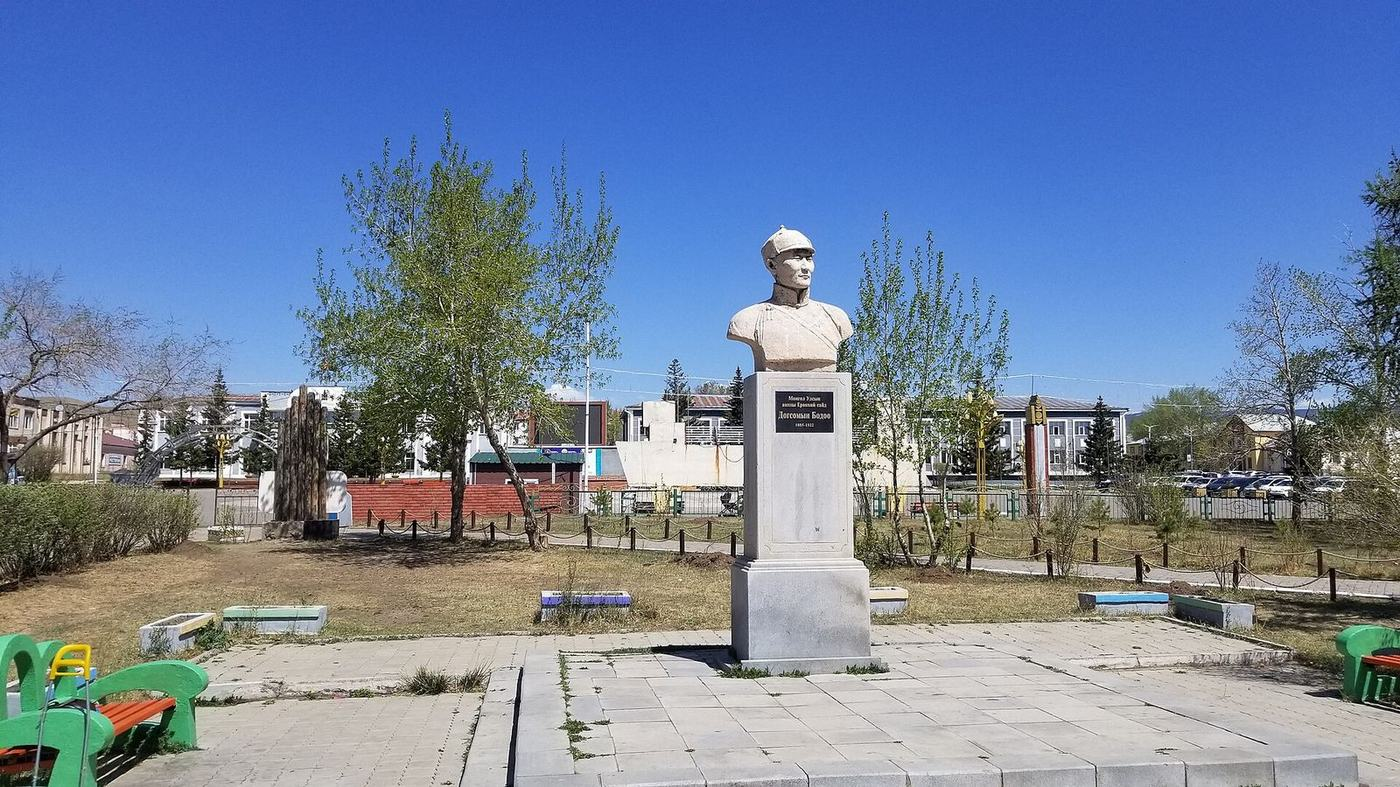
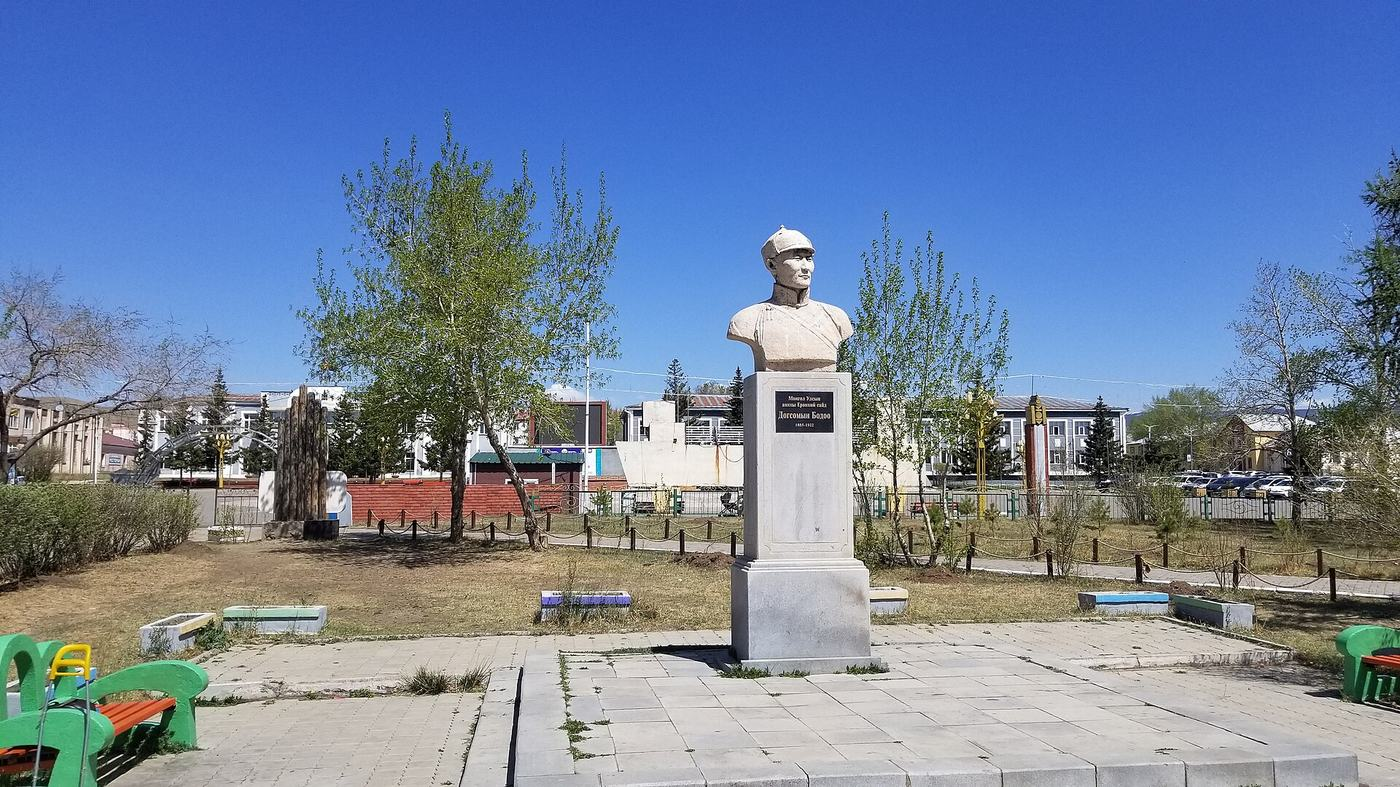
Зургийг Монгол орны дүр зураг руу шилжүүлэх: Зуунмод, Наадам, орон нутгийн сургалт, эрүүл мэнд

diff --git a/index.html b/index.html
@@ -79,7 +79,7 @@
     </p>
     <div class="tuv-cards">
       <article class="tuv-card">
-        <img class="tuv-card__img" src="assets/img/tile-employ.jpg" width="1400" height="900" alt="Ажлын орчинд хамтран ажиллаж буй хүмүүс" loading="lazy">
+        <img class="tuv-card__img" src="assets/img/work-project.jpg" width="1400" height="900" alt="Орон нутгийн хамтын ажил" loading="lazy">
         <div class="tuv-card__body">
           <h3 class="govuk-heading-s">Хөдөлмөр эрхлэлт</h3>
           <p class="govuk-body-s">Код 7820. Хөгжлийн бэрхшээлтэй иргэдийн хөдөлмөр эрхлэлтийг дэмжих үйл ажиллагаа.</p>
@@ -87,7 +87,7 @@
         </div>
       </article>
       <article class="tuv-card">
-        <img class="tuv-card__img" src="assets/img/tile-community.jpg" width="1400" height="900" alt="Хүнд туслах, нийгмийн оролцоо" loading="lazy">
+        <img class="tuv-card__img" src="assets/img/naadam-crowd.jpg" width="1400" height="900" alt="Наадмын үеэр уламжлалт дээлтэй олон нийт" loading="lazy">
         <div class="tuv-card__body">
           <h3 class="govuk-heading-s">Нийгмийн оролцоо</h3>
           <p class="govuk-body-s">Код 8211. Хөгжлийн бэрхшээлтэй иргэдийг нийгмийн амьдралд оролцуулах үйл ажиллагаа.</p>
@@ -95,7 +95,7 @@
         </div>
       </article>
       <article class="tuv-card">
-        <img class="tuv-card__img" src="assets/img/tile-train.jpg" width="1400" height="900" alt="Брайль бичгээр уншиж буй гар" loading="lazy">
+        <img class="tuv-card__img" src="assets/img/braille.jpg" width="1400" height="900" alt="Брайль бичгээр уншиж буй гар" loading="lazy">
         <div class="tuv-card__body">
           <h3 class="govuk-heading-s">Мэдээлэл, сургалт</h3>
           <p class="govuk-body-s">Код 9499. Мэдээлэл хүргэх, сургалт сурталчилгаа явуулах үйл ажиллагаа.</p>
@@ -113,32 +113,32 @@
     </p>
     <div class="tuv-tiles">
       <div class="tuv-tile">
-        <img class="tuv-tile__img" src="assets/img/tile-employ.jpg" width="1400" height="900" alt="Ажлын байранд хамтран ажиллаж буй хүмүүс" loading="lazy">
+        <img class="tuv-tile__img" src="assets/img/work-project2.jpg" width="1400" height="900" alt="Орон нутгийн иргэд хамтран ажиллаж байна" loading="lazy">
         <h3>Ажил, орлого</h3>
         <p>Ажил олдохгүй байх, орлогын дутагдал — хөгжлийн бэрхшээлтэй иргэдийн хамгийн түгээмэл асуудал.</p>
       </div>
       <div class="tuv-tile">
-        <img class="tuv-tile__img" src="assets/img/tile-access.jpg" width="1400" height="900" alt="Хүртээмжтэй налуу зам, тактиль хучилт" loading="lazy">
+        <img class="tuv-tile__img" src="assets/img/tactile.jpg" width="1400" height="900" alt="Хүртээмжтэй налуу зам, тактиль хучилт" loading="lazy">
         <h3>Хүртээмжгүй орчин</h3>
         <p>Барилга, зам, нийтийн үйлчилгээ, мэдээлэл хүн бүрт хүртээмжтэй байх ёстой.</p>
       </div>
       <div class="tuv-tile">
-        <img class="tuv-tile__img" src="assets/img/tile-support.jpg" width="1400" height="900" alt="Нөхөн сэргээх дасгал хийж буй хүн" loading="lazy">
+        <img class="tuv-tile__img" src="assets/img/health-check.jpg" width="1400" height="900" alt="Хүүхдэд эрүүл мэндийн үзлэг хийж буй эмч" loading="lazy">
         <h3>Эрүүл мэнд, нөхөн сэргээлт</h3>
         <p>Нөхөн сэргээх эмчилгээ, туслах хэрэгсэл, эрүүл мэндийн үйлчилгээ орон нутагт хүрэлцэхгүй.</p>
       </div>
       <div class="tuv-tile">
-        <img class="tuv-tile__img" src="assets/img/tile-train.jpg" width="1400" height="900" alt="Брайль бичгээр уншиж буй гар" loading="lazy">
+        <img class="tuv-tile__img" src="assets/img/classroom-num.jpg" width="1400" height="900" alt="Сургалтын танхим" loading="lazy">
         <h3>Боловсрол, сургалт</h3>
         <p>Сургууль, мэргэжлийн сургалтад тэгш хамрагдах боломж хязгаарлагдмал.</p>
       </div>
       <div class="tuv-tile">
-        <img class="tuv-tile__img" src="assets/img/tile-sport.jpg" width="1400" height="900" alt="Тэргэнцэртэй сагсан бөмбөгийн тоглогчид" loading="lazy">
+        <img class="tuv-tile__img" src="assets/img/naadam-horse.jpg" width="1400" height="900" alt="Наадмын морь уралдаан" loading="lazy">
         <h3>Соёл, спорт, чөлөөт цаг</h3>
         <p>Соёл, спортын үйл ажиллагаанд оролцох боломж цөөн, орчин тохиромжгүй.</p>
       </div>
       <div class="tuv-tile">
-        <img class="tuv-tile__img" src="assets/img/tile-community.jpg" width="1400" height="900" alt="Хүнд туслах сайн дурын ажилтан" loading="lazy">
+        <img class="tuv-tile__img" src="assets/img/health-child.jpg" width="1400" height="900" alt="Хүүхдэд үзлэг хийж байна" loading="lazy">
         <h3>Гэр бүл, дэмжлэг</h3>
         <p>Асран хамгаалагч, гэр бүлийн ачаалал их; харилцан дэмжлэг, мэдээлэл хэрэгтэй.</p>
       </div>
@@ -201,7 +201,7 @@
     <h2 class="govuk-heading-l">Хийсэн ажил</h2>
     <div class="tuv-feature">
       <div class="tuv-feature__media">
-        <img src="assets/img/meet-hall.jpg" width="1400" height="900" alt="Хамтран зохион байгуулсан чуулга уулзалт" loading="lazy">
+        <img src="assets/img/meeting-officials.jpg" width="1400" height="900" alt="Орон нутгийн албан ёсны уулзалт" loading="lazy">
       </div>
       <div class="tuv-feature__body">
         <h3 class="govuk-heading-m">«Хөгжлийн бэрхшээл ба тэгш хүртээмж» чуулга уулзалт</h3>
@@ -209,7 +209,7 @@
       </div>
     </div>    <div class="tuv-feature tuv-feature--flip">
       <div class="tuv-feature__media">
-        <img src="assets/img/local-town.jpg" width="1400" height="900" alt="«Аз жаргалын өргөө» төвийн орчин" loading="lazy">
+        <img src="assets/img/town-monument.jpg" width="1400" height="900" alt="Зуунмод хотын төв талбай" loading="lazy">
       </div>
       <div class="tuv-feature__body">
         <h3 class="govuk-heading-m">«Аз жаргалын өргөө» төвд үйл ажиллагаа явуулж эхэлсэн</h3>

diff --git a/services.html b/services.html
@@ -66,14 +66,14 @@
       </div>
     </div>
     <div class="tuv-band">
-      <img src="assets/img/access-tactile.jpg" width="1400" height="900" alt="Тактиль хучилт, хүртээмжтэй орчин" loading="lazy">
+      <img src="assets/img/tactile2.jpg" width="1400" height="900" alt="Тактиль хучилт — хүртээмжтэй орчны үндэс" loading="lazy">
     </div>  </div>
   <div class="govuk-width-container">
     <hr class="govuk-section-break govuk-section-break--l govuk-section-break--visible">
     <h2 class="govuk-heading-l">7820 — Хөдөлмөр эрхлэлт</h2>
     <div class="tuv-feature">
       <div class="tuv-feature__media">
-        <img src="assets/img/employ-workshop.jpg" width="1400" height="900" alt="Хамтран ажиллах, суралцах орчин" loading="lazy">
+        <img src="assets/img/work-project.jpg" width="1400" height="900" alt="Орон нутгийн хамтын ажил" loading="lazy">
       </div>
       <div class="tuv-feature__body">
         <h3 class="govuk-heading-m">Хөдөлмөр эрхлэлтийг дэмжих үйл ажиллагаа</h3>
@@ -88,8 +88,8 @@
       <li>Өөрсдийн бүтээгдэхүүнээ борлуулах боломж бүрдүүлэх</li>
     </ul>
     <div class="tuv-gallery tuv-gallery--2">
-      <img src="assets/img/tile-employ.jpg" width="1400" height="900" alt="Ажлын орчинд хамтран ажиллаж буй хүмүүс" loading="lazy">
-      <img src="assets/img/employ-workshop.jpg" width="1400" height="900" alt="Сургалт, хамтын ажил" loading="lazy">
+      <img src="assets/img/work-project2.jpg" width="1400" height="900" alt="Орон нутгийн иргэд хамтран ажиллаж байна" loading="lazy">
+      <img src="assets/img/town-park.jpg" width="1400" height="900" alt="Зуунмод хотын цэцэрлэгт хүрээлэн" loading="lazy">
     </div>
   </div>
   <div class="govuk-width-container">
@@ -97,7 +97,7 @@
     <h2 class="govuk-heading-l">8211 — Нийгмийн оролцоо</h2>
     <div class="tuv-feature tuv-feature--flip">
       <div class="tuv-feature__media">
-        <img src="assets/img/sport-basketball.jpg" width="1400" height="900" alt="Тэргэнцэртэй сагсан бөмбөг" loading="lazy">
+        <img src="assets/img/naadam-wrestle.jpg" width="1400" height="900" alt="Наадмын бөх барилдаан" loading="lazy">
       </div>
       <div class="tuv-feature__body">
         <h3 class="govuk-heading-m">Нийгмийн оролцоог дэмжих үйл ажиллагаа</h3>
@@ -112,8 +112,8 @@
       <li>Нийгмийн ойлголт, хандлагыг сайжруулах</li>
     </ul>
     <div class="tuv-gallery tuv-gallery--2">
-      <img src="assets/img/community-help.jpg" width="1400" height="900" alt="Хүнд туслах, хамтын дэмжлэг" loading="lazy">
-      <img src="assets/img/sport-special.jpg" width="1400" height="900" alt="Спортын арга хэмжээнд оролцож буй тамирчид" loading="lazy">
+      <img src="assets/img/naadam-stage.jpg" width="1400" height="900" alt="Наадмын нээлтийн тоглолт" loading="lazy">
+      <img src="assets/img/naadam-crowd.jpg" width="1400" height="900" alt="Наадмын үеэр уламжлалт дээлтэй олон нийт" loading="lazy">
     </div>
   </div>
   <div class="govuk-width-container">
@@ -121,7 +121,7 @@
     <h2 class="govuk-heading-l">9499 — Мэдээлэл, сургалт</h2>
     <div class="tuv-feature">
       <div class="tuv-feature__media">
-        <img src="assets/img/train-session.jpg" width="1400" height="900" alt="Сургалт, харилцааны дасгал" loading="lazy">
+        <img src="assets/img/braille.jpg" width="1400" height="900" alt="Брайль бичгээр уншиж буй гар" loading="lazy">
       </div>
       <div class="tuv-feature__body">
         <h3 class="govuk-heading-m">Мэдээлэл, сургалт сурталчилгаа явуулах үйл ажиллагаа</h3>
@@ -136,8 +136,8 @@
       <li>Олон нийтэд хөгжлийн бэрхшээлийн талаарх ойлголт өгөх</li>
     </ul>
     <div class="tuv-gallery tuv-gallery--2">
-      <img src="assets/img/tile-train.jpg" width="1400" height="900" alt="Брайль бичгээр уншиж буй гар" loading="lazy">
-      <img src="assets/img/gal-classroom.jpg" width="1400" height="900" alt="Сургалтын танхим" loading="lazy">
+      <img src="assets/img/classroom-num.jpg" width="1400" height="900" alt="Сургалтын танхим" loading="lazy">
+      <img src="assets/img/kindergarten.jpg" width="1400" height="900" alt="Орон нутгийн хүүхдүүд" loading="lazy">
     </div>
   </div>
   <div class="govuk-width-container">

diff --git a/record.html b/record.html
@@ -66,14 +66,14 @@
       </div>
     </div>
     <div class="tuv-band">
-      <img src="assets/img/meet-hall.jpg" width="1400" height="900" alt="Хамтран зохион байгуулсан уулзалт" loading="lazy">
+      <img src="assets/img/town-square.jpg" width="1400" height="900" alt="Зуунмод сумын төв талбай" loading="lazy">
     </div>  </div>
   <div class="govuk-width-container">
     <hr class="govuk-section-break govuk-section-break--l govuk-section-break--visible">
     <h2 class="govuk-heading-l">2023 оны 12 дугаар сар</h2>
     <div class="tuv-feature">
       <div class="tuv-feature__media">
-        <img src="assets/img/community-help.jpg" width="1400" height="900" alt="Олон нийтийн уулзалт, хэлэлцүүлэг" loading="lazy">
+        <img src="assets/img/meeting-officials.jpg" width="1400" height="900" alt="Орон нутгийн албан ёсны уулзалт" loading="lazy">
       </div>
       <div class="tuv-feature__body">
         <h3 class="govuk-heading-m">«Хөгжлийн бэрхшээл ба тэгш хүртээмж» чуулга уулзалт</h3>
@@ -87,7 +87,7 @@
     <h2 class="govuk-heading-l">2023 оны 7 дугаар сар</h2>
     <div class="tuv-feature tuv-feature--flip">
       <div class="tuv-feature__media">
-        <img src="assets/img/local-town.jpg" width="1400" height="900" alt="«Аз жаргалын өргөө» төвийн орчин" loading="lazy">
+        <img src="assets/img/town-monument.jpg" width="1400" height="900" alt="Зуунмод хотын төв талбай" loading="lazy">
       </div>
       <div class="tuv-feature__body">
         <h3 class="govuk-heading-m">«Аз жаргалын өргөө» төвд үйл ажиллагаа явуулж эхэлсэн</h3>
@@ -106,21 +106,21 @@
       <li>Ариун цэврийн өрөө, душ</li>
     </ul>
     <div class="tuv-gallery tuv-gallery--2">
-      <img src="assets/img/access-tactile.jpg" width="1400" height="900" alt="Хүртээмжтэй орчин, тактиль хучилт" loading="lazy">
-      <img src="assets/img/support-therapy.jpg" width="1400" height="900" alt="Нөхөн сэргээх дасгал" loading="lazy">
+      <img src="assets/img/tactile2.jpg" width="1400" height="900" alt="Хүртээмжтэй орчин, тактиль хучилт" loading="lazy">
+      <img src="assets/img/town-street.jpg" width="1400" height="900" alt="Зуунмод хотын гудамж" loading="lazy">
     </div>
   </div>
   <div class="govuk-width-container">
     <hr class="govuk-section-break govuk-section-break--l govuk-section-break--visible">
-    <h2 class="govuk-heading-l">Үйл ажиллагааны зураг</h2>
+    <h2 class="govuk-heading-l">Үйл ажиллагааны чиглэлүүд</h2>
     <p class="govuk-body">
-      Холбооны ажиллах чиглэлүүдийг харуулах зургууд.
+      Холбооны ажиллах чиглэлүүд — ажил, хүртээмж, соёл, хамтын дэмжлэг.
     </p>
     <div class="tuv-gallery">
-      <img src="assets/img/tile-employ.jpg" width="1400" height="900" alt="Ажлын орчин" loading="lazy">
-      <img src="assets/img/tile-access.jpg" width="1400" height="900" alt="Хүртээмжтэй орчин" loading="lazy">
-      <img src="assets/img/tile-sport.jpg" width="1400" height="900" alt="Спортын оролцоо" loading="lazy">
-      <img src="assets/img/tile-community.jpg" width="1400" height="900" alt="Хамтын дэмжлэг" loading="lazy">
+      <img src="assets/img/work-project2.jpg" width="1400" height="900" alt="Хамтын ажил" loading="lazy">
+      <img src="assets/img/tactile.jpg" width="1400" height="900" alt="Хүртээмжтэй орчин" loading="lazy">
+      <img src="assets/img/naadam-horse.jpg" width="1400" height="900" alt="Соёл, спортын оролцоо" loading="lazy">
+      <img src="assets/img/health-women.jpg" width="1400" height="900" alt="Эрүүл мэндийн үзлэг" loading="lazy">
     </div>
   </div>
 

diff --git a/about.html b/about.html
@@ -66,7 +66,7 @@
       </div>
     </div>
     <div class="tuv-band">
-      <img src="assets/img/about-people.jpg" width="1400" height="900" alt="Орон нутгийн хүүхдүүд, Төв аймаг" loading="lazy">
+      <img src="assets/img/naadam-stage.jpg" width="1400" height="900" alt="Наадмын нээлтийн тоглолт, Төв аймаг" loading="lazy">
     </div>  </div>
   <div class="govuk-width-container">
     <hr class="govuk-section-break govuk-section-break--l govuk-section-break--visible">
@@ -139,8 +139,8 @@
         </ol>
       </div>
       <div class="govuk-grid-column-one-third">
-        <img src="assets/img/about-town.jpg" width="1400" height="900"
-             alt="Орон нутгийн хамтын ажил" class="tuv-side-img" loading="lazy">
+        <img src="assets/img/town-street.jpg" width="1400" height="900"
+             alt="Зуунмод хотын гудамж" class="tuv-side-img" loading="lazy">
       </div>
     </div>
   </div>
@@ -200,8 +200,8 @@
       «Аз жаргалын өргөө» төвд үйл ажиллагааны байртай.
     </p>
     <div class="tuv-gallery tuv-gallery--2">
-      <img src="assets/img/local-town.jpg" width="1400" height="900" alt="Зуунмод хотын гудамж" loading="lazy">
-      <img src="assets/img/local-square.jpg" width="1400" height="900" alt="Зуунмод сумын төв талбай" loading="lazy">
+      <img src="assets/img/town-square.jpg" width="1400" height="900" alt="Зуунмод сумын төв талбай" loading="lazy">
+      <img src="assets/img/town-monument.jpg" width="1400" height="900" alt="Зуунмод хотын төв талбай" loading="lazy">
     </div>
   </div>
 

diff --git a/transparency.html b/transparency.html
@@ -66,7 +66,7 @@
       </div>
     </div>
     <div class="tuv-band">
-      <img src="assets/img/local-town.jpg" width="1400" height="900" alt="Зуунмод хот, Төв аймаг" loading="lazy">
+      <img src="assets/img/town-monument.jpg" width="1400" height="900" alt="Зуунмод хотын төв талбай" loading="lazy">
     </div>  </div>
   <div class="govuk-width-container">
     <hr class="govuk-section-break govuk-section-break--l govuk-section-break--visible">
@@ -117,8 +117,8 @@
       <li>Дэлхийн зөн (World Vision) — Төв орон нутгийн хөтөлбөр</li>
     </ul>
     <div class="tuv-gallery tuv-gallery--2">
-      <img src="assets/img/gal-kindergarten.jpg" width="1400" height="900" alt="Орон нутгийн боловсролын байгууллага" loading="lazy">
-      <img src="assets/img/gal-naadam.jpg" width="1400" height="900" alt="Орон нутгийн соёлын арга хэмжээ" loading="lazy">
+      <img src="assets/img/kindergarten.jpg" width="1400" height="900" alt="Орон нутгийн хүүхдүүд" loading="lazy">
+      <img src="assets/img/naadam-stage.jpg" width="1400" height="900" alt="Орон нутгийн соёлын арга хэмжээ" loading="lazy">
     </div>
   </div>
   <div class="govuk-width-container">

diff --git a/contact.html b/contact.html
@@ -66,7 +66,7 @@
       </div>
     </div>
     <div class="tuv-band">
-      <img src="assets/img/local-square.jpg" width="1400" height="900" alt="Зуунмод сумын төв талбай" loading="lazy">
+      <img src="assets/img/town-park.jpg" width="1400" height="900" alt="Зуунмод хотын цэцэрлэгт хүрээлэн" loading="lazy">
     </div>  </div>
   <div class="govuk-width-container">
     <hr class="govuk-section-break govuk-section-break--l govuk-section-break--visible">
@@ -115,8 +115,8 @@
       бидэнд мэдэгдэнэ үү.
     </p>
     <div class="tuv-gallery tuv-gallery--2">
-      <img src="assets/img/gal-steppe.jpg" width="1400" height="900" alt="Төв аймгийн тал хээр" loading="lazy">
-      <img src="assets/img/gal-health.jpg" width="1400" height="900" alt="Орон нутгийн эрүүл мэндийн үйлчилгээ" loading="lazy">
+      <img src="assets/img/steppe.jpg" width="1400" height="900" alt="Төв аймгийн тал хээр" loading="lazy">
+      <img src="assets/img/health-women.jpg" width="1400" height="900" alt="Эрүүл мэндийн үзлэгт хамрагдаж буй иргэд" loading="lazy">
     </div>
   </div>
 
